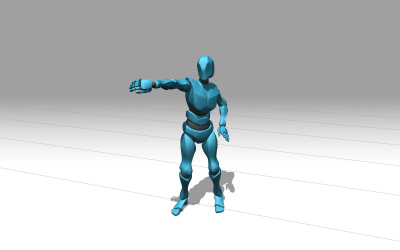
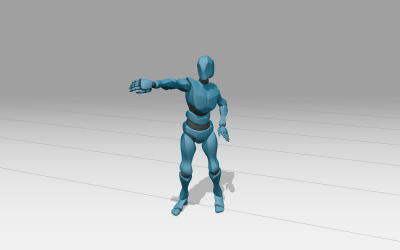
Examples: Update FBXLoader examples to .outputEncoding = sRGBEncoding (#25441)
* Examples: Update FBXLoader examples to .outputEncoding = sRGBEncoding

Update screenshots

FBXLoader: Add sRGB -> Linear-sRGB conversion for material colors.

FBXLoader: Add sRGB -> Linear-sRGB conversion for vertex colors.

revert bvh screenshot

* Update screenshots

* Bump screenshots

Changed region(s): [[0.0, 0.224, 1.0, 0.868]]

diff --git a/examples/jsm/loaders/FBXLoader.js b/examples/jsm/loaders/FBXLoader.js
@@ -542,12 +542,12 @@ class FBXTreeParser {
 
 		if ( materialNode.Diffuse ) {
 
-			parameters.color = new Color().fromArray( materialNode.Diffuse.value );
+			parameters.color = new Color().fromArray( materialNode.Diffuse.value ).convertSRGBToLinear();
 
 		} else if ( materialNode.DiffuseColor && ( materialNode.DiffuseColor.type === 'Color' || materialNode.DiffuseColor.type === 'ColorRGB' ) ) {
 
 			// The blender exporter exports diffuse here instead of in materialNode.Diffuse
-			parameters.color = new Color().fromArray( materialNode.DiffuseColor.value );
+			parameters.color = new Color().fromArray( materialNode.DiffuseColor.value ).convertSRGBToLinear();
 
 		}
 
@@ -559,12 +559,12 @@ class FBXTreeParser {
 
 		if ( materialNode.Emissive ) {
 
-			parameters.emissive = new Color().fromArray( materialNode.Emissive.value );
+			parameters.emissive = new Color().fromArray( materialNode.Emissive.value ).convertSRGBToLinear();
 
 		} else if ( materialNode.EmissiveColor && ( materialNode.EmissiveColor.type === 'Color' || materialNode.EmissiveColor.type === 'ColorRGB' ) ) {
 
 			// The blender exporter exports emissive color here instead of in materialNode.Emissive
-			parameters.emissive = new Color().fromArray( materialNode.EmissiveColor.value );
+			parameters.emissive = new Color().fromArray( materialNode.EmissiveColor.value ).convertSRGBToLinear();
 
 		}
 
@@ -600,12 +600,12 @@ class FBXTreeParser {
 
 		if ( materialNode.Specular ) {
 
-			parameters.specular = new Color().fromArray( materialNode.Specular.value );
+			parameters.specular = new Color().fromArray( materialNode.Specular.value ).convertSRGBToLinear();
 
 		} else if ( materialNode.SpecularColor && materialNode.SpecularColor.type === 'Color' ) {
 
 			// The blender exporter exports specular color here instead of in materialNode.Specular
-			parameters.specular = new Color().fromArray( materialNode.SpecularColor.value );
+			parameters.specular = new Color().fromArray( materialNode.SpecularColor.value ).convertSRGBToLinear();
 
 		}
 
@@ -1153,7 +1153,7 @@ class FBXTreeParser {
 
 			if ( lightAttribute.Color !== undefined ) {
 
-				color = new Color().fromArray( lightAttribute.Color.value );
+				color = new Color().fromArray( lightAttribute.Color.value ).convertSRGBToLinear();
 
 			}
 
@@ -1469,7 +1469,7 @@ class FBXTreeParser {
 
 			if ( r !== 0 || g !== 0 || b !== 0 ) {
 
-				const color = new Color( r, g, b );
+				const color = new Color( r, g, b ).convertSRGBToLinear();
 				sceneGraph.add( new AmbientLight( color, 1 ) );
 
 			}
@@ -2214,6 +2214,12 @@ class GeometryParser {
 		if ( referenceType === 'IndexToDirect' ) {
 
 			indexBuffer = ColorNode.ColorIndex.a;
+
+		}
+
+		for ( let i = 0, c = new Color(); i < buffer.length; i += 4 ) {
+
+			c.fromArray( buffer, i ).convertSRGBToLinear().toArray( buffer, i );
 
 		}
 

diff --git a/examples/webgl_loader_fbx.html b/examples/webgl_loader_fbx.html
@@ -35,6 +35,8 @@
 			import { OrbitControls } from 'three/addons/controls/OrbitControls.js';
 			import { FBXLoader } from 'three/addons/loaders/FBXLoader.js';
 
+			THREE.ColorManagement.enabled = true;
+
 			let camera, scene, renderer, stats;
 
 			const clock = new THREE.Clock();
@@ -56,11 +58,11 @@
 				scene.background = new THREE.Color( 0xa0a0a0 );
 				scene.fog = new THREE.Fog( 0xa0a0a0, 200, 1000 );
 
-				const hemiLight = new THREE.HemisphereLight( 0xffffff, 0x444444 );
+				const hemiLight = new THREE.HemisphereLight( 0xffffff, 0x444444, 1.5 );
 				hemiLight.position.set( 0, 200, 0 );
 				scene.add( hemiLight );
 
-				const dirLight = new THREE.DirectionalLight( 0xffffff );
+				const dirLight = new THREE.DirectionalLight( 0xffffff, 1.5 );
 				dirLight.position.set( 0, 200, 100 );
 				dirLight.castShadow = true;
 				dirLight.shadow.camera.top = 180;
@@ -109,6 +111,7 @@
 				renderer = new THREE.WebGLRenderer( { antialias: true } );
 				renderer.setPixelRatio( window.devicePixelRatio );
 				renderer.setSize( window.innerWidth, window.innerHeight );
+				renderer.outputEncoding = THREE.sRGBEncoding;
 				renderer.shadowMap.enabled = true;
 				container.appendChild( renderer.domElement );
 

diff --git a/examples/webgl_raycaster_bvh.html b/examples/webgl_raycaster_bvh.html
@@ -47,6 +47,8 @@
 			import { OrbitControls } from 'three/addons/controls/OrbitControls.js';
 			import { GUI } from 'three/addons/libs/lil-gui.module.min.js';
 
+			THREE.ColorManagement.legacyMode = false;
+
 			// Add the extension functions
 			THREE.BufferGeometry.prototype.computeBoundsTree = computeBoundsTree;
 			THREE.BufferGeometry.prototype.disposeBoundsTree = disposeBoundsTree;
@@ -97,6 +99,7 @@
 				renderer = new THREE.WebGLRenderer( { antialias: true } );
 				renderer.setPixelRatio( window.devicePixelRatio );
 				renderer.setSize( window.innerWidth, window.innerHeight );
+				renderer.outputEncoding = THREE.sRGBEncoding;
 				document.body.appendChild( renderer.domElement );
 
 				stats = new Stats();

diff --git a/examples/webgl_loader_fbx_nurbs.html b/examples/webgl_loader_fbx_nurbs.html
@@ -34,6 +34,8 @@
 			import { OrbitControls } from 'three/addons/controls/OrbitControls.js';
 			import { FBXLoader } from 'three/addons/loaders/FBXLoader.js';
 
+			THREE.ColorManagement.legacyMode = false;
+
 			let camera, scene, renderer, stats;
 
 			init();
@@ -76,6 +78,7 @@
 				renderer = new THREE.WebGLRenderer();
 				renderer.setPixelRatio( window.devicePixelRatio );
 				renderer.setSize( window.innerWidth, window.innerHeight );
+				renderer.outputEncoding = THREE.sRGBEncoding;
 				container.appendChild( renderer.domElement );
 
 				const controls = new OrbitControls( camera, renderer.domElement );

diff --git a/examples/webgpu_skinning_points.html b/examples/webgpu_skinning_points.html
@@ -93,6 +93,7 @@
 				renderer.setPixelRatio( window.devicePixelRatio );
 				renderer.setSize( window.innerWidth, window.innerHeight );
 				renderer.setAnimationLoop( animate );
+				renderer.outputEncoding = THREE.sRGBEncoding;
 				document.body.appendChild( renderer.domElement );
 
 				window.addEventListener( 'resize', onWindowResize );
